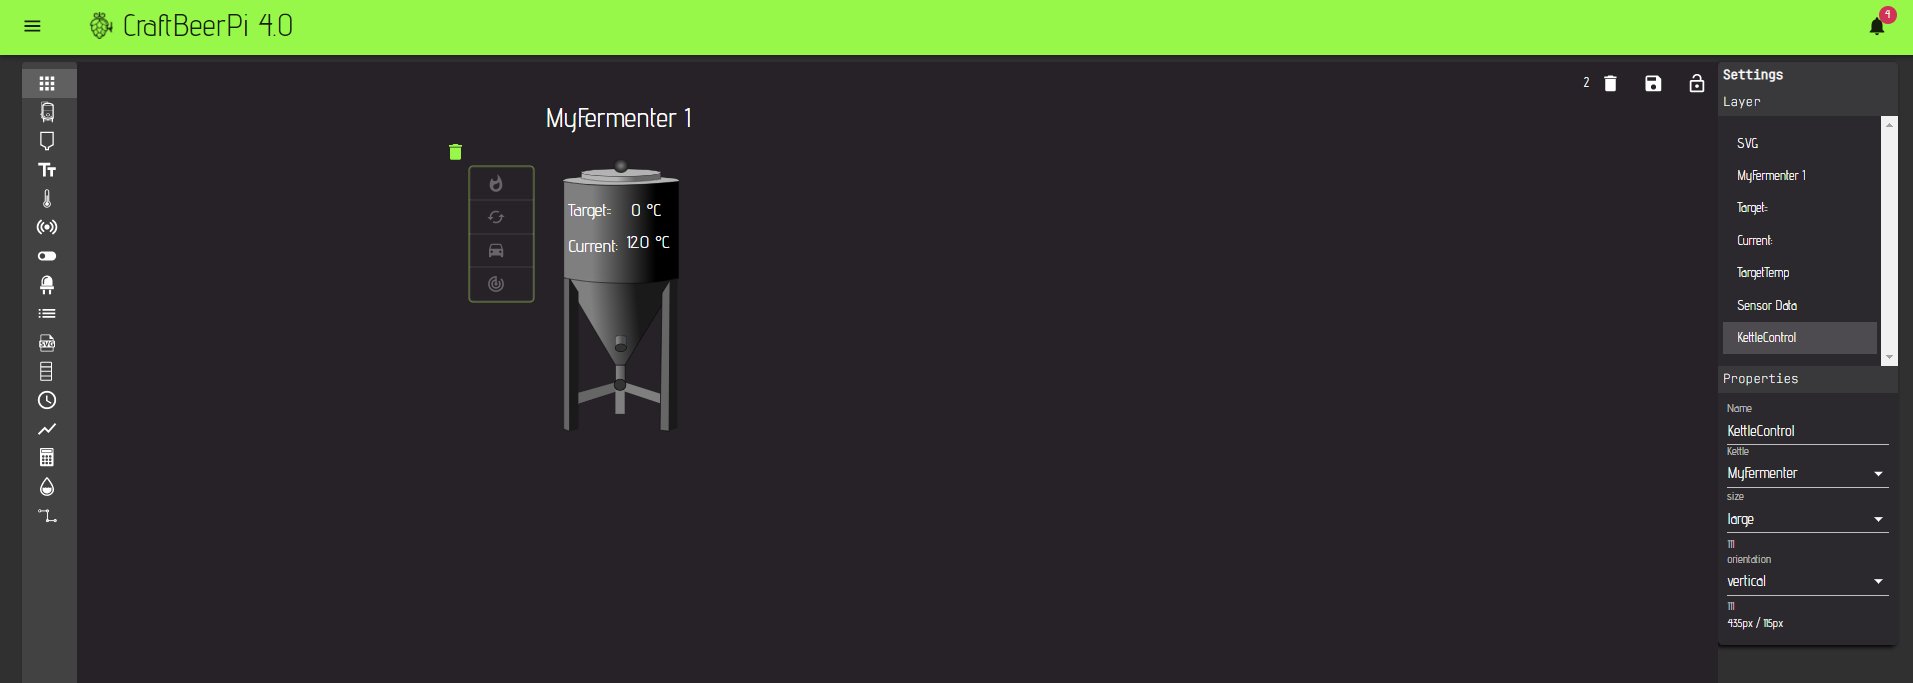
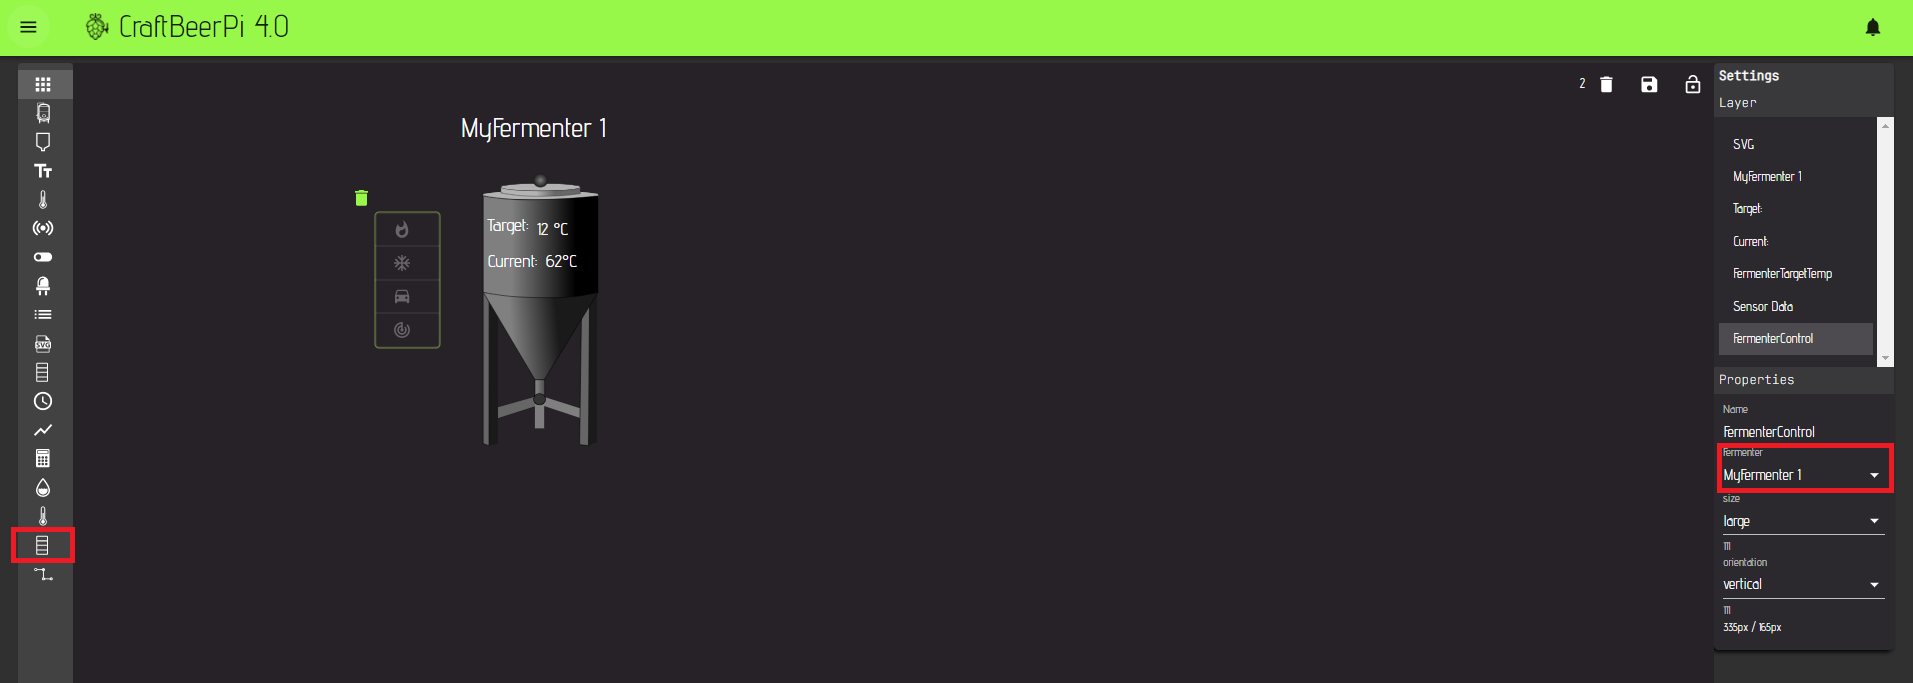
fermenter update

diff --git a/master/craftbeerpi-4-server/dashboard.md b/master/craftbeerpi-4-server/dashboard.md
@@ -228,7 +228,7 @@ Then select the widget you have uploaded in the properties on the right side. As
 
 ![The selected SVG item is shown in the dashboard](../../.gitbook/assets/cbpi4-dasboard-fermenter-konus.png)
 
-Now you can add, as already shown for the brewing setup a name for your Fermenter. This time you need to add a fermenter target temp item and select the fermenter you did set up in the hardware section.
+Now you can add, as already shown for the brewing setup a name for your Fermenter. This time you need to add a fermenter target temp item instead of the kettle target temp intem and select the fermenter you did set up in the hardware section.
 
 ![Adding a target temp item to your fermenter](../../.gitbook/assets/cbpi4-dashboard-fermenter-target.png)
 
